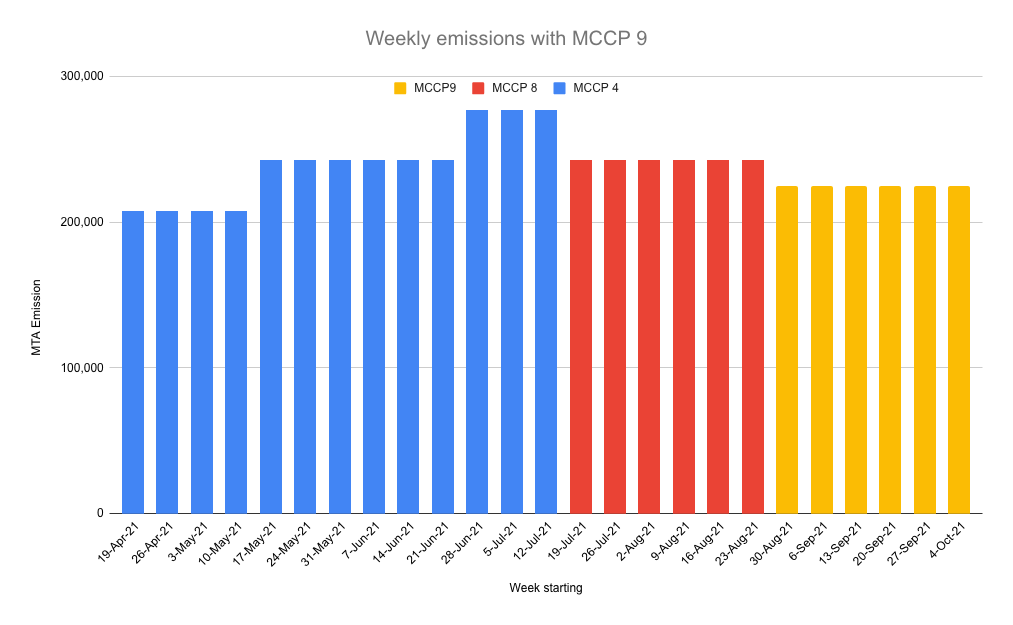
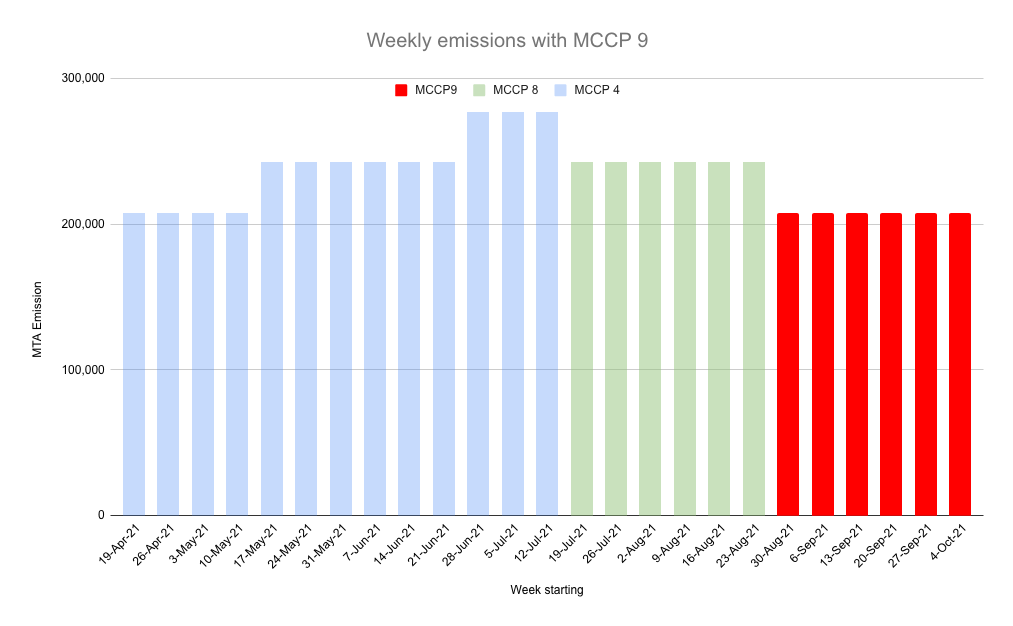
MCCP 9 add amount from election and update Chart (#48)

diff --git a/MCCP/mccp-9.md b/MCCP/mccp-9.md
@@ -9,13 +9,13 @@ created: 2021-08-16
 
 ## Simple Summary
 
-It is motioned to continue the reward distribution as specified in [MCCP 4](./mccp-4) with the amendment [MCCP 7](./mccp-7) for the weeks 35 to 41, starting from 30th August 2021 until the last distribution under this MCCP on the 11th Octorber 2021. This reward distribution consists of 6 weekly emissions of [TBD Amount], a reduction from the previous distribution as specified in [MCCP 8](./mccp-8).
+It is motioned to continue the reward distribution as specified in [MCCP 4](./mccp-4) with the amendment [MCCP 7](./mccp-7) for the weeks 35 to 41, starting from 30th August 2021 until the last distribution under this MCCP on the 11th Octorber 2021. This reward distribution consists of 6 weekly emissions of 207,692, a reduction from the previous distribution as specified in [MCCP 8](./mccp-8).
 
 ## Abstract
 
 [MCCP 4](./mccp-4) proposed a prospective emission schedule over the next few years and a set of rules to follow in order to calculate weekly distributions. [MCCP 7](./mccp-7) later amended it and carved out a portion to distribute on Polygon. The proposal [MCCP 8](./mccp-8) extended that emission to 6 more weeks and reduced the emission to 242,308 MTA weekly.
 
-This MCCP motions to continue the reward emission window for 6 weeks, starting from 30th August 2021 until the last distribution on the 11th October 2021 with reduced weekly emissions of [TBD Amount].
+This MCCP motions to continue the reward emission window for 6 weeks, starting from 30th August 2021 until the last distribution on the 11th October 2021 with reduced weekly emissions of 207,692.
 
 ![weekly-emissions](/assets/MCCP-9/weekly-emissions.png)
 
